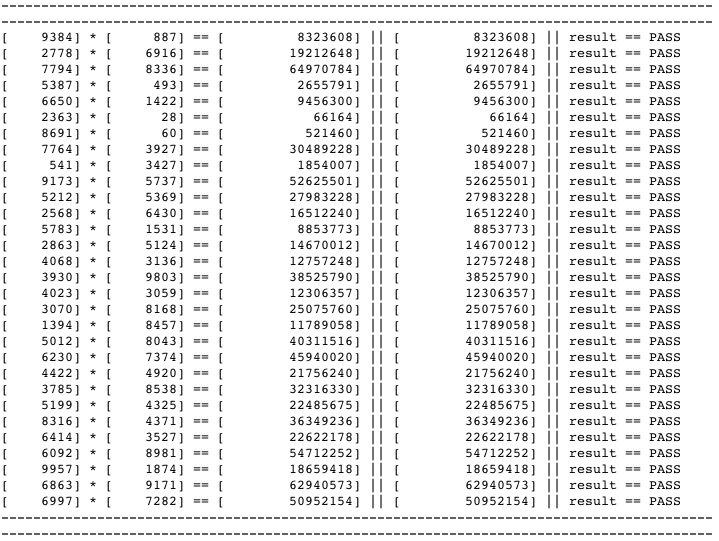
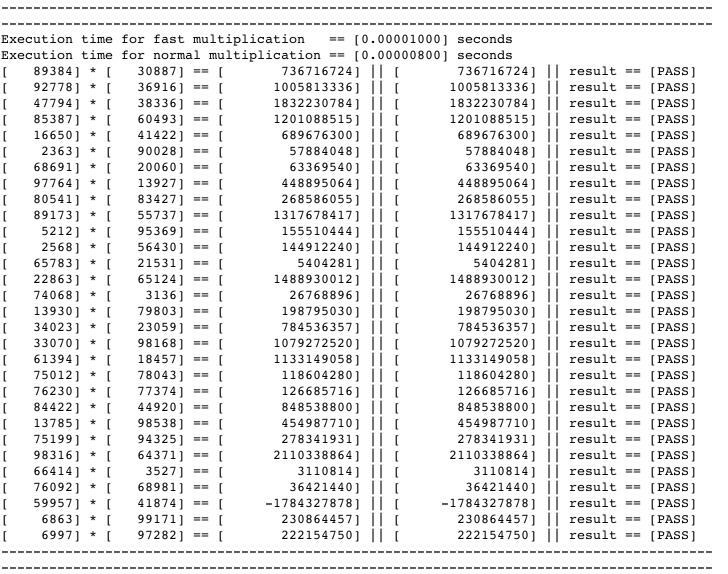
solution 4

Changed region(s): [[0.0, 0.0, 0.9791, 1.0]]

diff --git a/Chapter_8_Advanced_Counting_Techniques/8.3_Divide_and_Conquer_Algorithms_and_Recurrence_Relations/Exercises/repo/solution_4.cpp b/Chapter_8_Advanced_Counting_Techniques/8.3_Divide_and_Conquer_Algorithms_and_Recurrence_Relations/Exercises/repo/solution_4.cpp
@@ -35,23 +35,34 @@ int normal_multiplay(int a, int b) {
     return a * b;
 }
 
-int random(int s, int e) {
-    return s + rand() % (e - s + 1);
+std::vector<int> get_random_numbers(int s, int e, int n) {
+    std::vector<int> v;
+    for (int i = 0; i < 2 * n; ++i)
+        v.push_back(s + rand() % (e - s + 1));
+
+    return v;
 }
 
 int unit_test() {
     printf("-----------------------------------------------------------------------------------------\n");
     printf("-----------------------------------------------------------------------------------------\n");
-    for (int i = 0; i < 30; ++i) {
-        const int a = random(1, 10000);
-        const int b = random(1, 10000);
+    const std::vector<int> v = get_random_numbers(1, 100000, 30);
 
-        const int x = fast_multiply(a, b);
-        const int y = normal_multiplay(a, b);
+    std::vector<int> rfm;
+    std::clock_t start = std::clock();
+    for (std::size_t i = 0; i < v.size(); i += 2)
+        rfm.push_back(fast_multiply(v[i], v[i + 1]));
+    printf("Execution time for fast multiplication   == [%.08lf] seconds\n", (std::clock() - start) / static_cast<double>(CLOCKS_PER_SEC));
 
-        printf("[%8d] * [%8d] == [%16d] || [%16d] || result == %s\n",
-               a, b, x, y, x == y ? "PASS" : "FAIL");
-    }
+    std::vector<int> rnm;
+    start = std::clock();
+    for (std::size_t i = 0; i < v.size(); i += 2)
+        rnm.push_back(fast_multiply(v[i], v[i + 1]));
+    printf("Execution time for normal multiplication == [%.08lf] seconds\n", (std::clock() - start) / static_cast<double>(CLOCKS_PER_SEC));
+
+    for (std::size_t i = 0; i < rnm.size(); ++i)
+        printf("[%8d] * [%8d] == [%16d] || [%16d] || result == [%s]\n",
+               v[2 * i], v[2 * i + 1], rfm[i], rnm[i], rfm[i] == rnm[i] ? "PASS" : "FAIL");
     printf("-----------------------------------------------------------------------------------------\n");
     printf("-----------------------------------------------------------------------------------------\n");
 }
